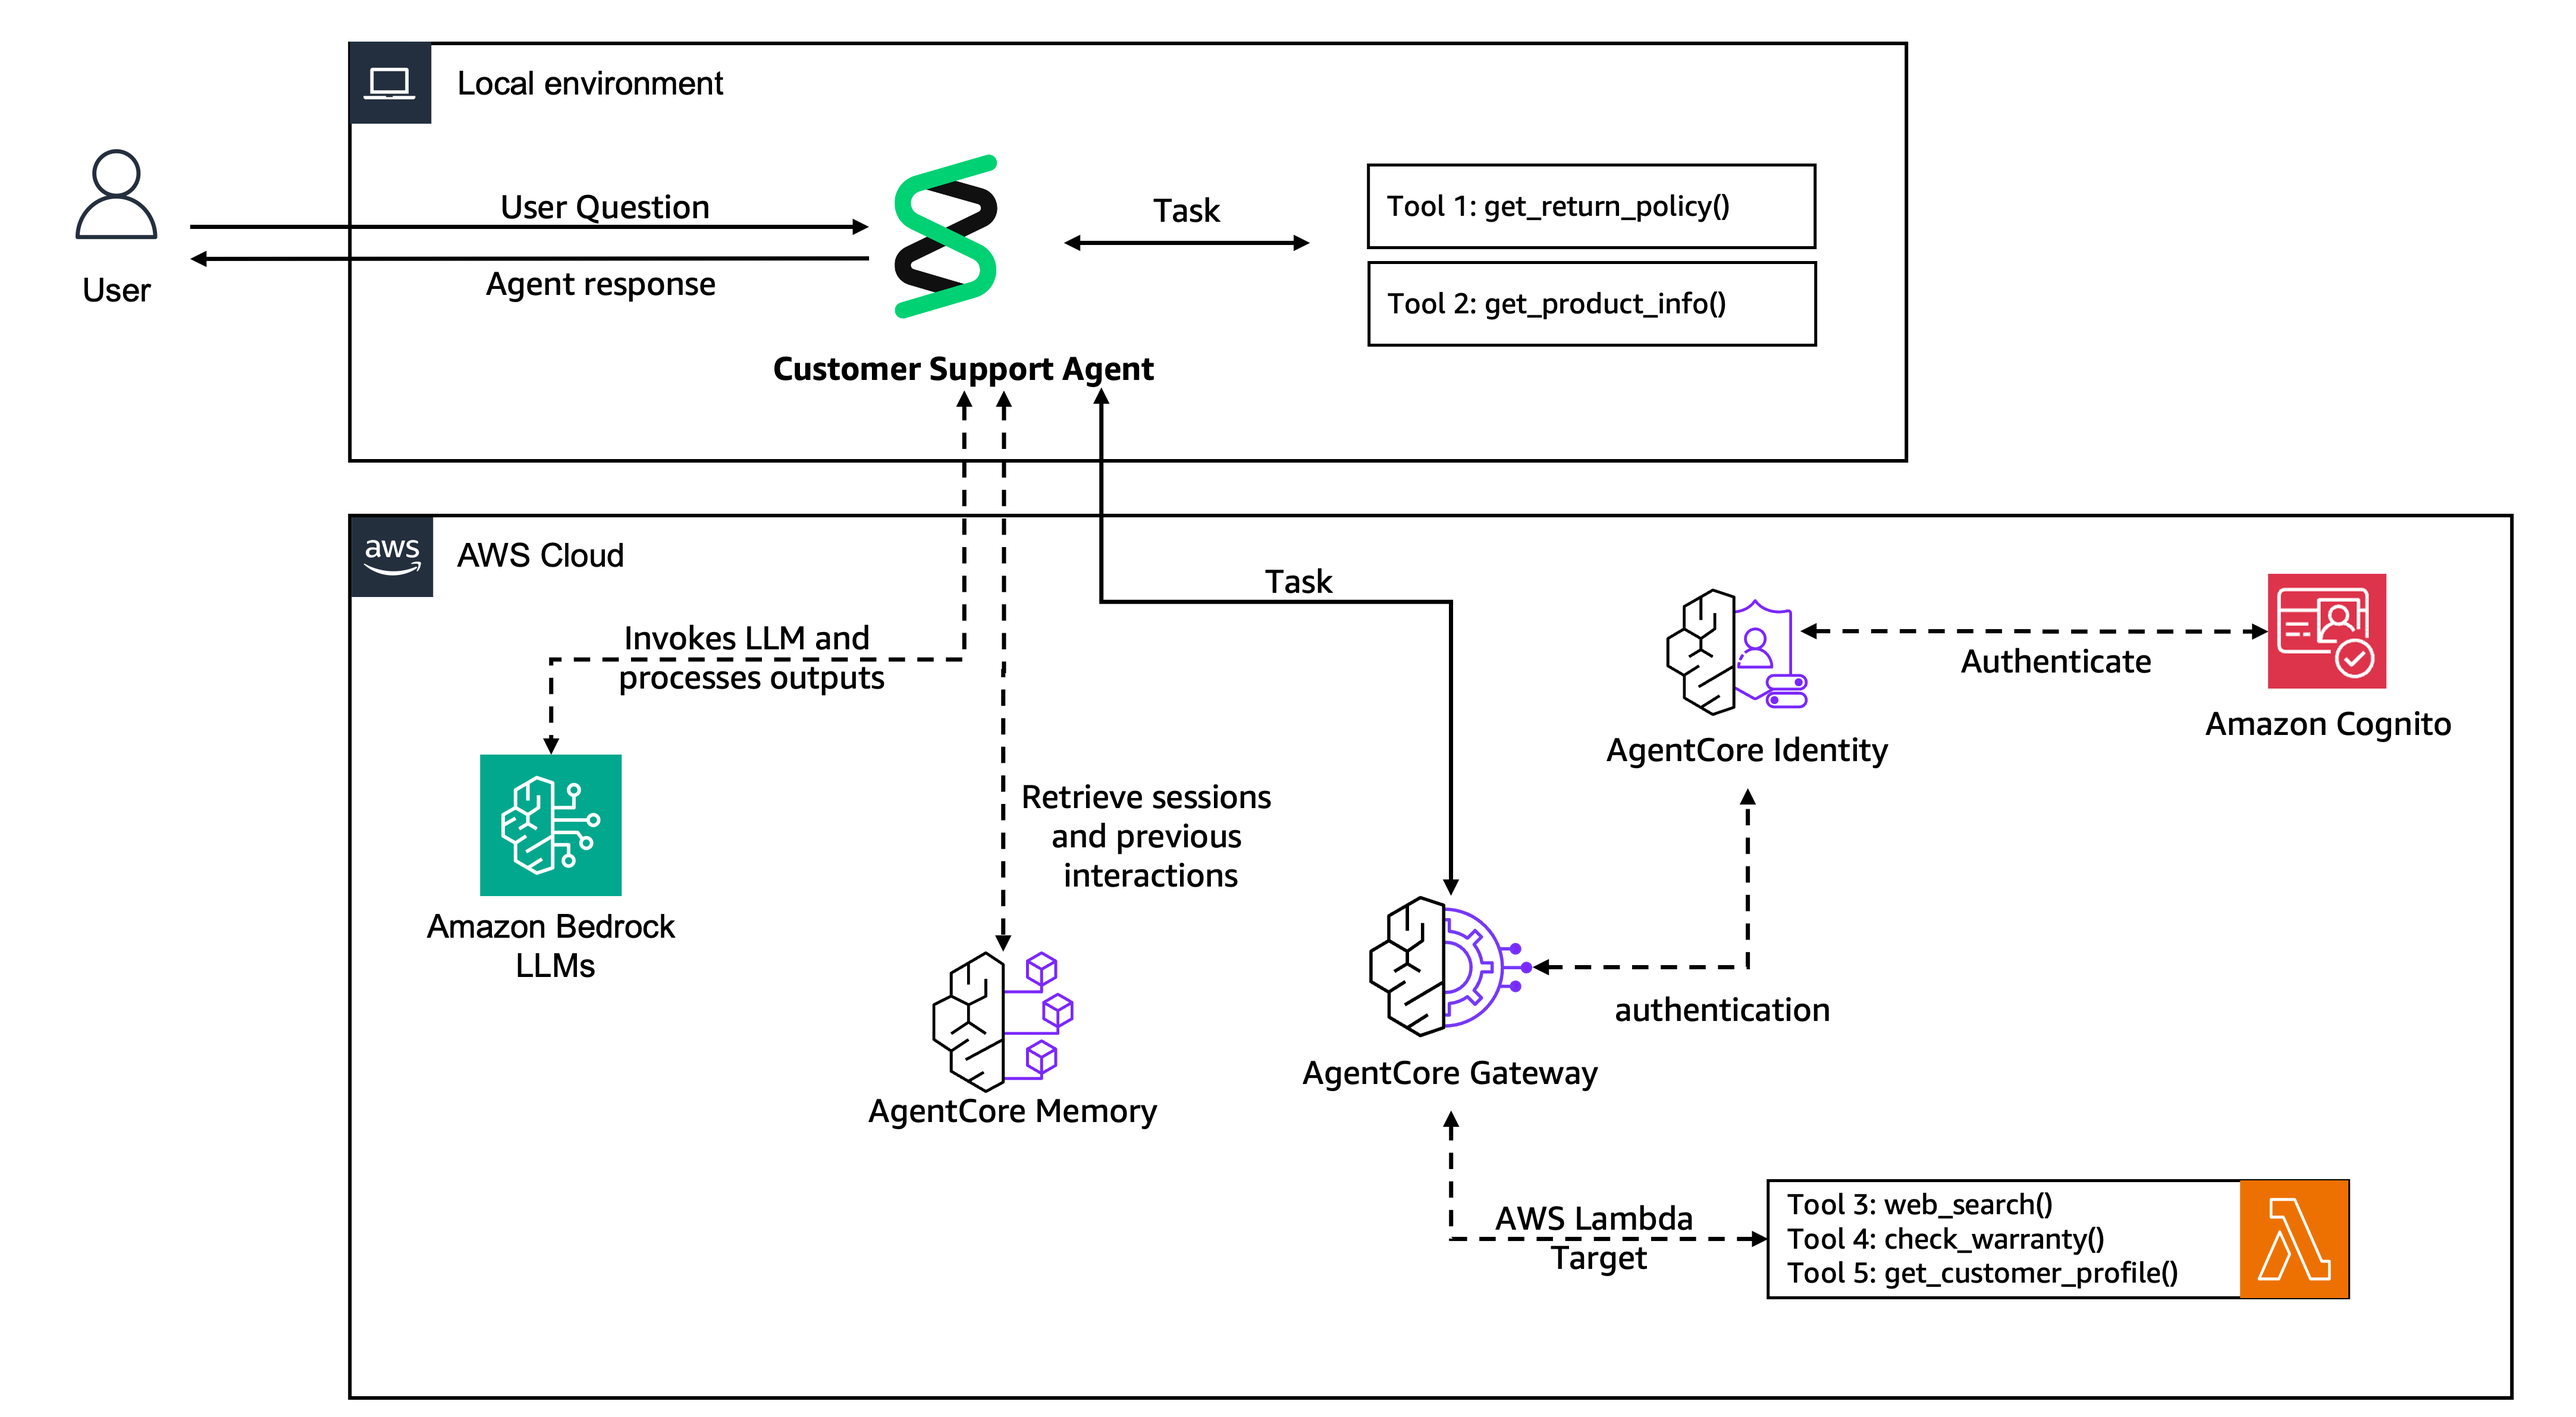
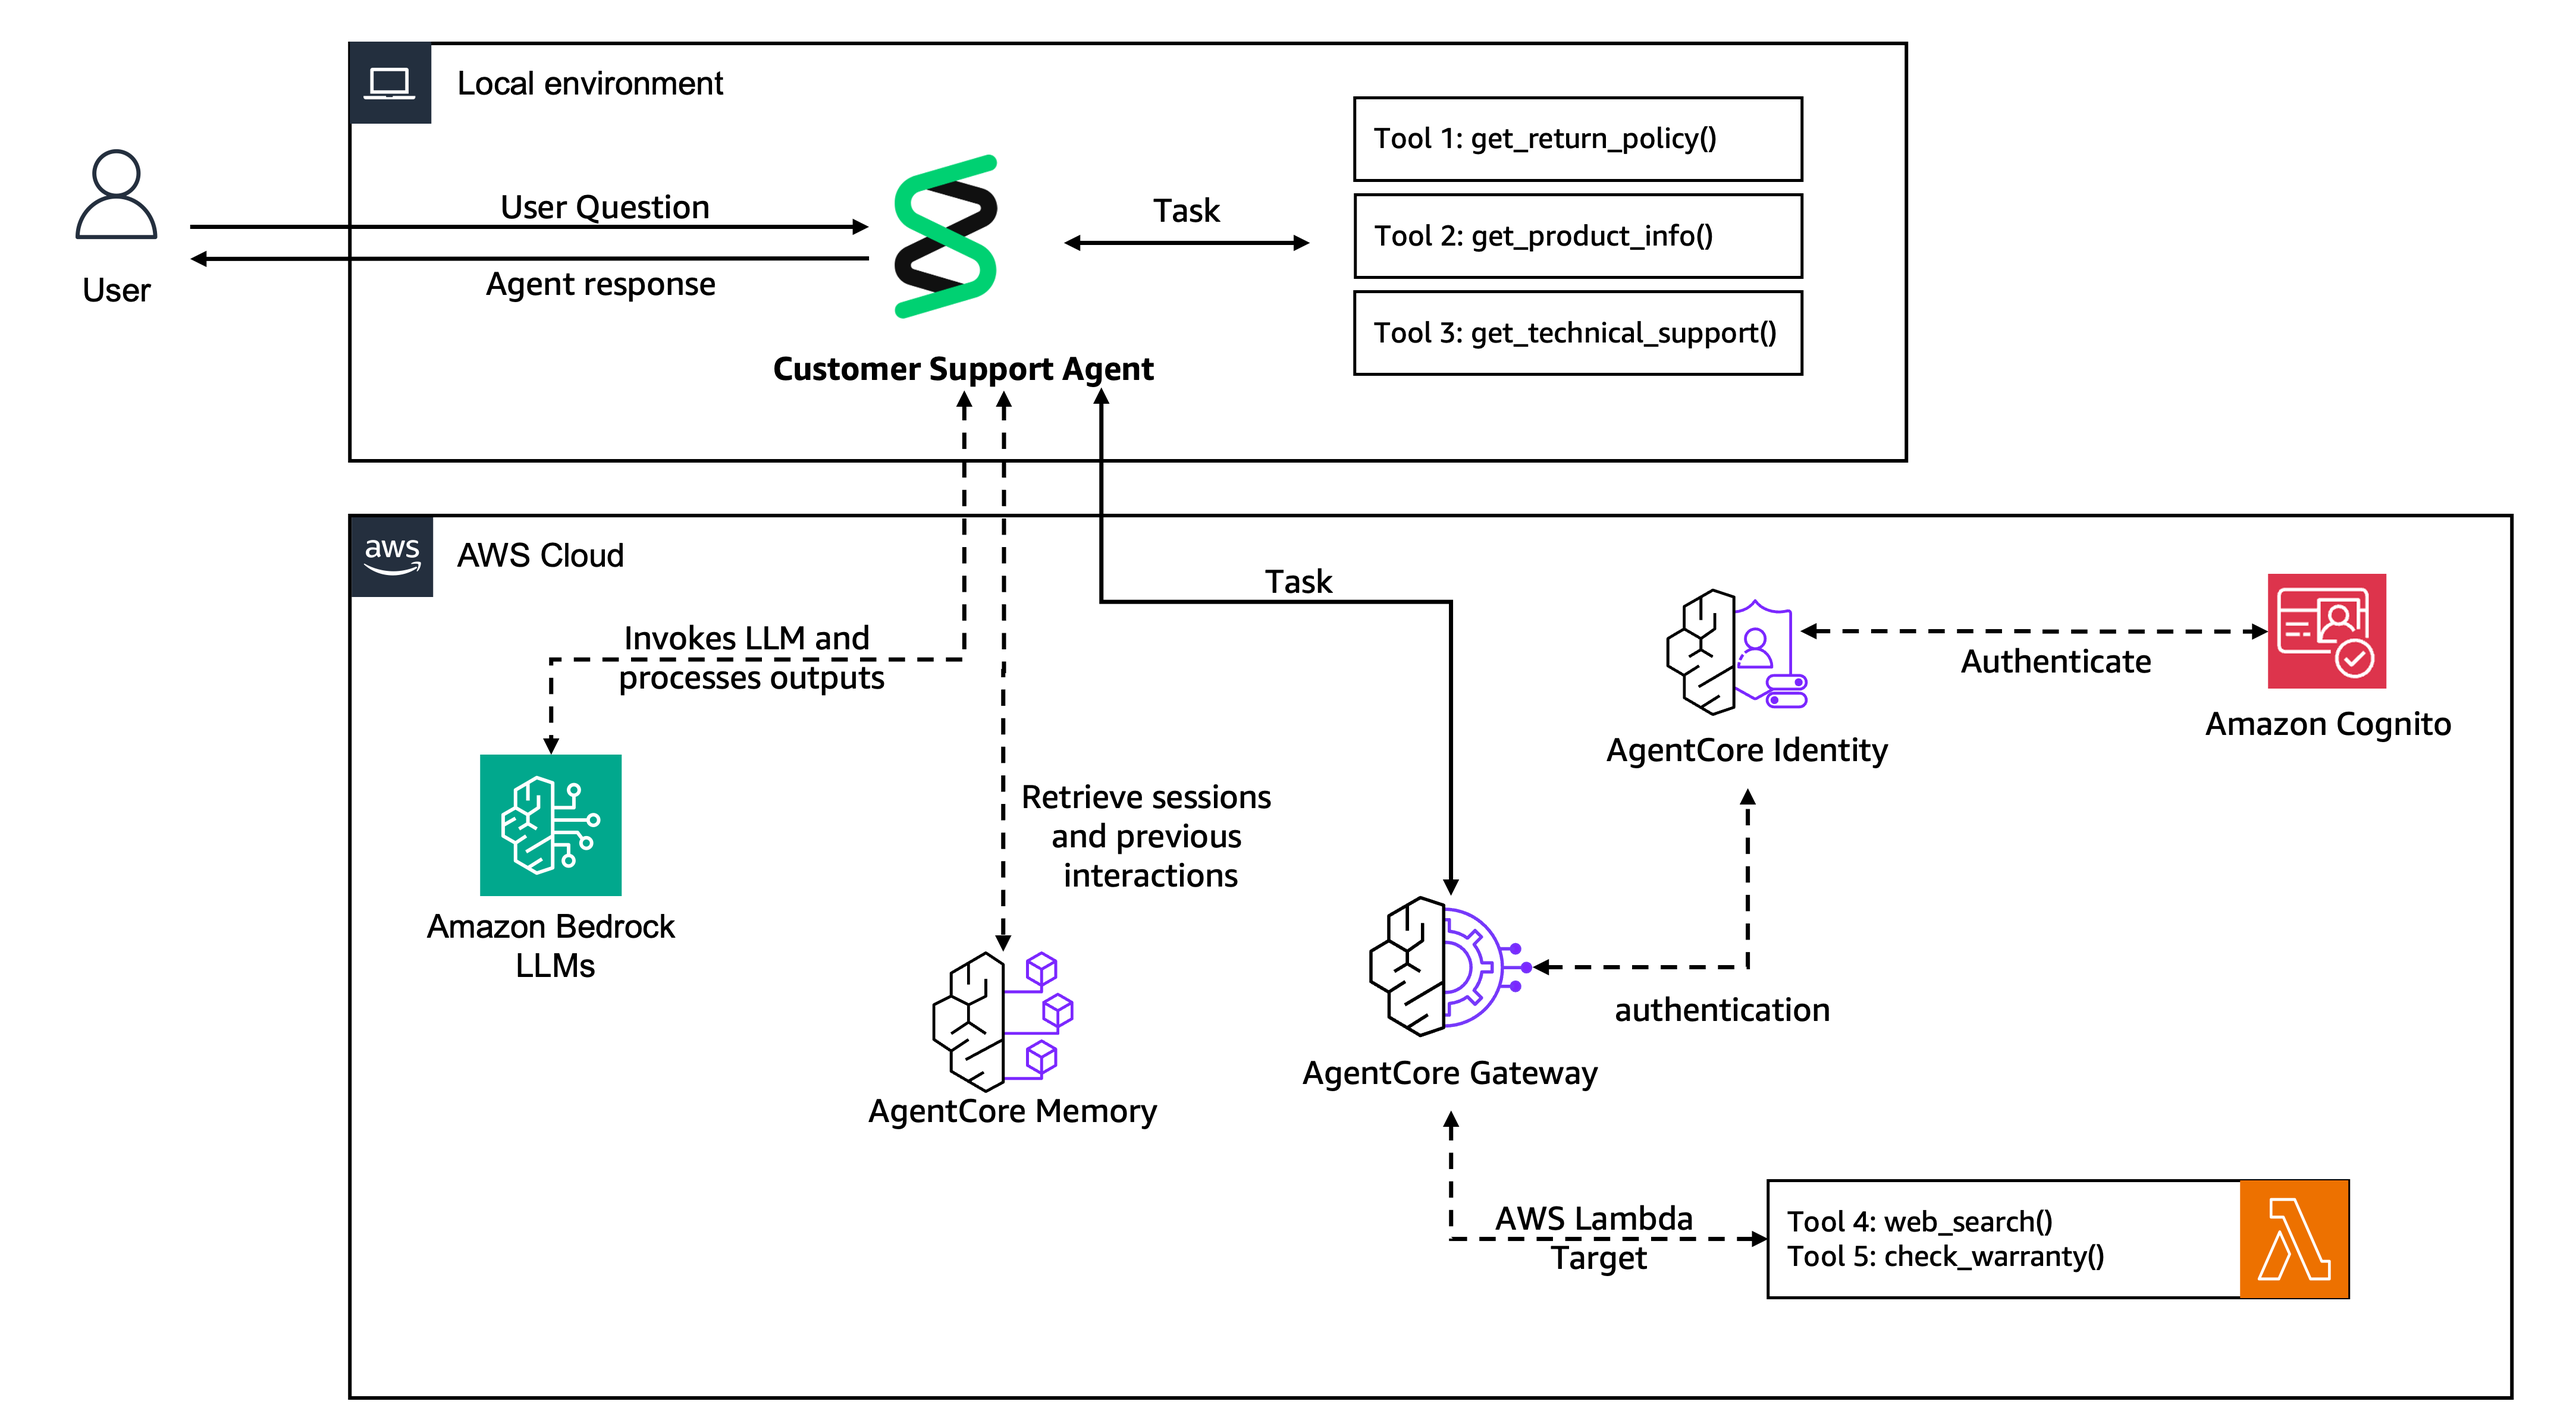
Architecture Image update. prereq.sh command to lab2 (#311)
* arch diagram update

* moved prereq command to lab2

* add

* updated labs

* removed tmp files

* removed knowledge base files

---------

Changed region(s): [[0.5299, 0.0932, 0.7169, 0.2484], [0.6858, 0.8384, 0.8416, 0.9005]]

diff --git a/01-tutorials/07-AgentCore-E2E/lab_helpers/lab1_strands_agent.py b/01-tutorials/07-AgentCore-E2E/lab_helpers/lab1_strands_agent.py
@@ -1,6 +1,8 @@
 from strands.tools import tool
 from ddgs.exceptions import DDGSException, RatelimitException
 from ddgs import DDGS
+from strands_tools import retrieve
+import boto3
 
 MODEL_ID = "us.anthropic.claude-3-7-sonnet-20250219-v1:0"
 
@@ -153,3 +155,37 @@ def get_product_info(product_type: str) -> str:
            f"• Key Features: {product['features']}\n" \
            f"• Compatibility: {product['compatibility']}\n" \
            f"• Support: {product['support']}"
+
+@tool
+def get_technical_support(issue_description: str) -> str:
+	try:
+		# Get KB ID from parameter store
+		ssm = boto3.client('ssm')
+		account_id = boto3.client('sts').get_caller_identity()['Account']
+		region = boto3.Session().region_name
+
+		kb_id = ssm.get_parameter(Name=f"/{account_id}-{region}/kb/knowledge-base-id")['Parameter']['Value']
+		print(f"Successfully retrieved KB ID: {kb_id}")
+
+		# Use strands retrieve tool
+		tool_use = {
+			"toolUseId": "tech_support_query",
+			"input": {
+				"text": issue_description,
+				"knowledgeBaseId": kb_id,
+				"region": region,
+				"numberOfResults": 3,
+				"score": 0.4
+			}
+		}
+
+		result = retrieve.retrieve(tool_use)
+
+		if result["status"] == "success":
+			return result["content"][0]["text"]
+		else:
+			return f"Unable to access technical support documentation. Error: {result['content'][0]['text']}"
+
+	except Exception as e:
+		print(f"Detailed error in get_technical_support: {str(e)}")
+		return f"Unable to access technical support documentation. Error: {str(e)}"

diff --git a/01-tutorials/07-AgentCore-E2E/lab_helpers/lab4_runtime.py b/01-tutorials/07-AgentCore-E2E/lab_helpers/lab4_runtime.py
@@ -7,6 +7,7 @@ from scripts.utils import get_ssm_parameter
 from lab_helpers.lab1_strands_agent import (
     get_return_policy,
     get_product_info,
+    get_technical_support,
     SYSTEM_PROMPT,
     MODEL_ID,
 )
@@ -30,7 +31,7 @@ memory_hooks = CustomerSupportMemoryHooks(
 # Create the agent with all customer support tools
 agent = Agent(
     model=model,
-    tools=[get_return_policy, get_product_info],
+    tools=[get_return_policy, get_product_info, get_technical_support],
     system_prompt=SYSTEM_PROMPT,
     hooks=[memory_hooks],
 )
